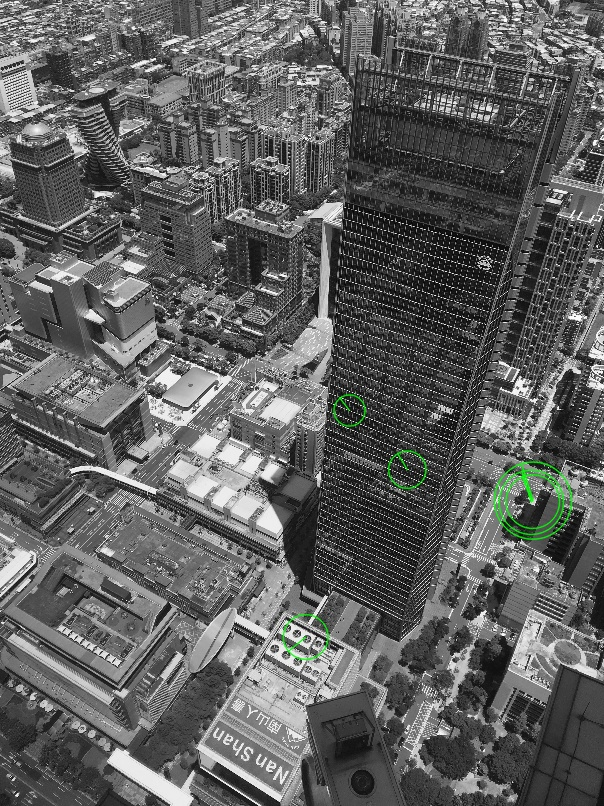
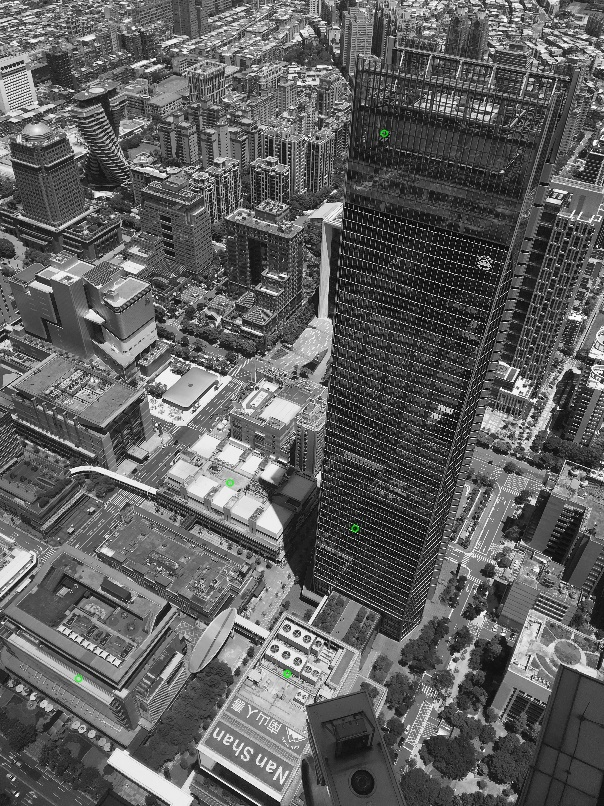
sift fix

diff --git a/HW2/hw2/main.py b/HW2/hw2/main.py
@@ -19,6 +19,8 @@ from numpy.linalg import inv
 import time
 import threading
 
+print(cv2.__version__)
+
 
 path = os.getcwd()
 qtCreatorFile = path + os.sep + "mainwindow.ui"
@@ -96,26 +98,24 @@ class MainWindow(QMainWindow, Ui_MainWindow):
         img2_gray = cv2.cvtColor(img2, cv2.COLOR_BGR2GRAY)
         
         # Initiate SIFT detector
-        print("Init orb")
-        orb = cv2.ORB_create(nfeatures = 6,
-                            scaleFactor = 1.2,
-                            nlevels = 8,
-                            edgeThreshold = 20,
-                            firstLevel = 0,
-                            WTA_K = 2,
-                            patchSize = 31,
-                            fastThreshold = 10)
+        print("Init SIFT")
+        sift = cv2.xfeatures2d.SIFT_create()
 
-        kp1, des1 = orb.detectAndCompute(img1_gray,None)
-        kp2, des2 = orb.detectAndCompute(img2_gray,None)
+        kp1 = sift.detect(img1,None)
+        kp1.sort(key=lambda x: -x.size)
+
+        kp2 = sift.detect(img2,None)
+        kp2 = sorted(kp2,key=lambda x: -x.size)
+
+        
 
         img1_display = cv2.drawKeypoints(img1_gray.copy(),
-                                        kp1,color=(0,255,0),
-                                        flags=cv2.DRAW_MATCHES_FLAGS_DRAW_RICH_KEYPOINTS,
+                                        kp1[:6],color=(0,255,0),
+                                        flags=cv2.DRAW_MATCHES_FLAGS_DEFAULT,
                                         outImage = img1_gray)
         img2_display = cv2.drawKeypoints(img2_gray.copy(),
-                                        kp2,color=(0,255,0),
-                                        flags=cv2.DRAW_MATCHES_FLAGS_DRAW_RICH_KEYPOINTS,
+                                        kp2[:6],color=(0,255,0),
+                                        flags=cv2.DRAW_MATCHES_FLAGS_DEFAULT,
                                         outImage = img2_gray)
         cv2.imwrite("FeatureAerial1.jpg",img1_display)
         cv2.imwrite("FeatureAerial2.jpg",img2_display)
@@ -123,11 +123,11 @@ class MainWindow(QMainWindow, Ui_MainWindow):
         #######################################
         plt.subplot(121)
         plt.imshow(img1_display,cmap = 'gray')
-        #plt.title('Template matching feature')
+        plt.title('FeatureAerial1.jpg')
         #######################################
         plt.subplot(122)
         plt.imshow(img2_display,cmap = 'gray')
-        #plt.title('Detected Point')
+        plt.title('FeatureAerial2.jpg')
         #######################################
         plt.show()
         #pass
@@ -135,31 +135,53 @@ class MainWindow(QMainWindow, Ui_MainWindow):
     def on_bt_matched_keypoints(self):
         img1 = cv2.imread("Aerial1.jpg")
         img2 = cv2.imread("Aerial2.jpg")
+        matchImg = np.zeros_like(img1)
 
         img1_gray = cv2.cvtColor(img1, cv2.COLOR_BGR2GRAY)
         img2_gray = cv2.cvtColor(img2, cv2.COLOR_BGR2GRAY)
         
         # Initiate SIFT detector
-        #print("Init orb")
-        orb = cv2.ORB_create(nfeatures = 6,
-                            scaleFactor = 1.2,
-                            nlevels = 8,
-                            edgeThreshold = 20,
-                            firstLevel = 0,
-                            WTA_K = 2,
-                            patchSize = 31,
-                            fastThreshold = 10)
-        kp1, des1 = orb.detectAndCompute(img1_gray,None)
-        kp2, des2 = orb.detectAndCompute(img2_gray,None)
-        
-        
-        bf = cv2.BFMatcher(cv2.NORM_HAMMING, crossCheck=True)
-        matches = bf.match(des1, des2)
-        matches = sorted(matches, key=lambda x: x.distance)
-        img3 = cv2.drawMatches(img1_gray, kp2, img2_gray, kp1, matches[:80], img2, flags=cv2.DRAW_MATCHES_FLAGS_DEFAULT)
+        print("Init SIFT")
+        sift = cv2.xfeatures2d.SIFT_create()
 
-        plt.imshow(img3)
+        kp1, des1 = sift.detectAndCompute(img1_gray, None)
+        kp2, des2 = sift.detectAndCompute(img2_gray, None)
+
+        kpdes1 = sorted(list(zip(kp1, des1)),key = lambda x: -x[0].size)
+        kpdes2 = sorted(list(zip(kp2, des2)),key = lambda x: -x[0].size)
+        kp1 = [i[0] for i in kpdes1][:6]
+        des1 = [i[1] for i in kpdes1][:6]
+        kp2 = [i[0] for i in kpdes2][:6]
+        des2 = [i[1] for i in kpdes2][:6]
+        #print(kp1)
+
+        img1_display = cv2.drawKeypoints(img1_gray.copy(),
+                                        kp1,color=(0,255,0),
+                                        flags=cv2.DRAW_MATCHES_FLAGS_DEFAULT,
+                                        outImage = img1_gray)
+        img2_display = cv2.drawKeypoints(img2_gray.copy(),
+                                        kp2,color=(0,255,0),
+                                        flags=cv2.DRAW_MATCHES_FLAGS_DEFAULT,
+                                        outImage = img2_gray)
+
+        bf = cv2.BFMatcher_create(normType=cv2.NORM_L2, crossCheck=True)
+        matches = bf.match(np.asarray(des1,np.float32), np.asarray(des2,np.float32)) 
+        # bf = cv2.BFMatcher()
+        # matches = bf.knnMatch(des1, des2, k=2)
+        #matches = sorted(matches, key=lambda x: x.distance)
+        matchImg = cv2.drawMatches(img1_gray, kp1, img2_gray, kp2, matches, matchImg, flags=cv2.DRAW_MATCHES_FLAGS_DEFAULT)
+
+        plt.imshow(matchImg)
         plt.show()
+        # plt.subplot(121)
+        # plt.imshow(img1_display,cmap = 'gray')
+        # plt.title('FeatureAerial1.jpg')
+        # #######################################
+        # plt.subplot(122)
+        # plt.imshow(img2_display,cmap = 'gray')
+        # plt.title('FeatureAerial2.jpg')
+        # #######################################
+        # plt.show()
         pass
 
     def on_bt_cancel(self):

diff --git a/HW2/hw2/test.py b/HW2/hw2/test.py
@@ -1,0 +1,4 @@
+import cv2
+
+img = cv2.imread("/home/user1/1.png")
+print(img)
